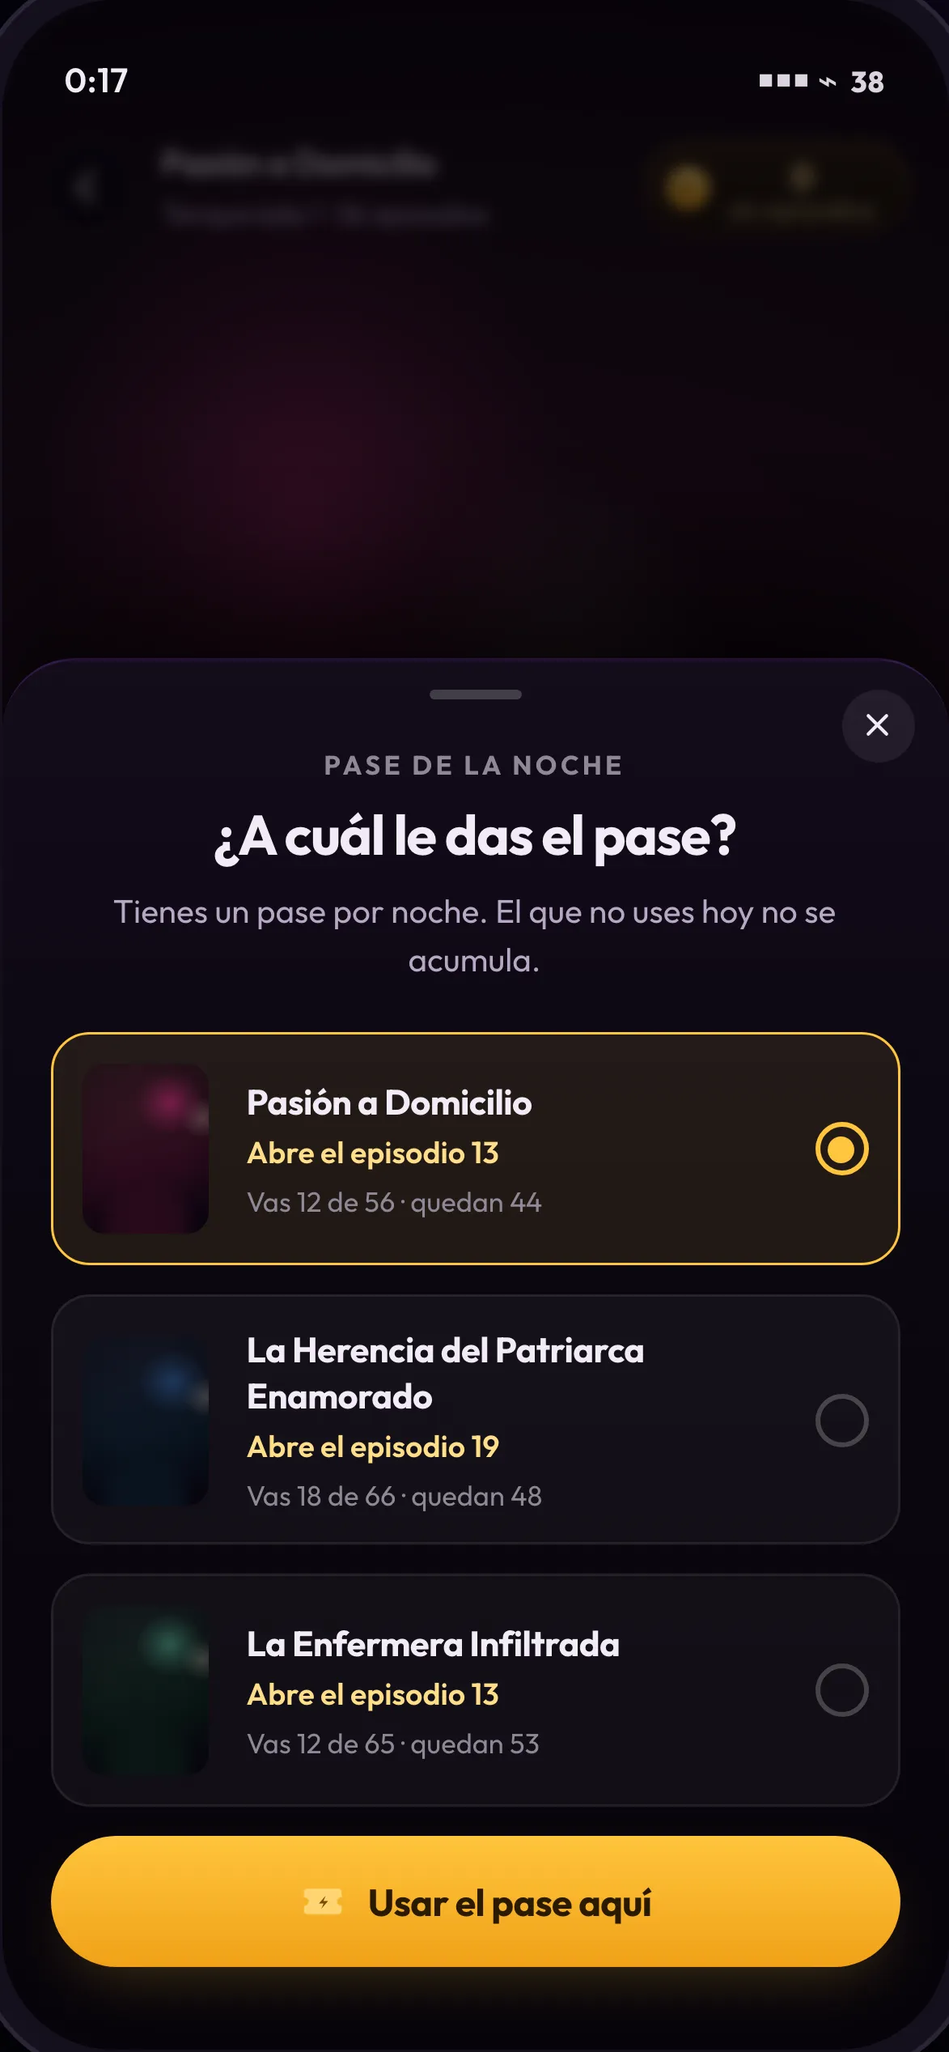
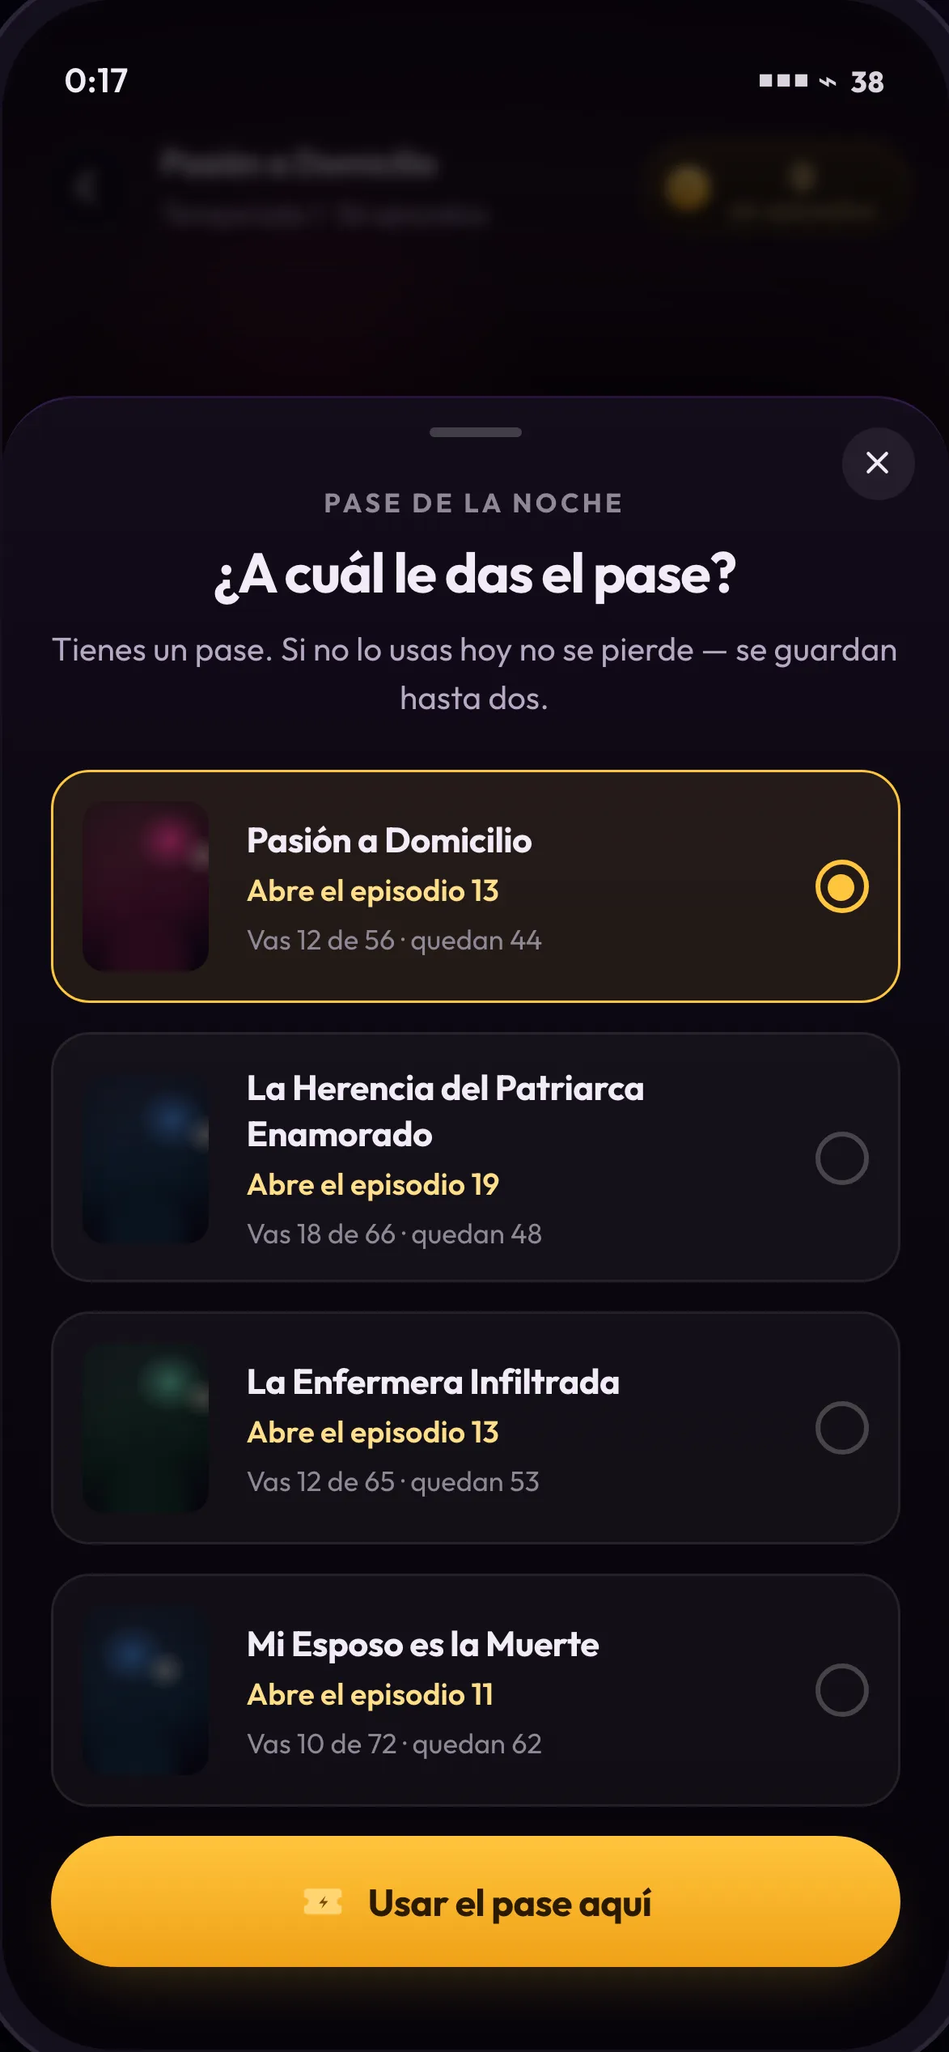
Tocabas una historia y el reproductor te daba otra
Dogfooding del flujo del pase, que es el corazón de la intervención y hasta hoy
no lo había recorrido nadie de punta a punta. Encontró tres cosas.

El player y el muro leían un seriesId que solo se movía para las tres series
con guion. Abrir cualquiera de las otras 47 del catálogo te dejaba viendo
Pasión a Domicilio, con un muro que hablaba de una historia que no pediste.
La raíz era guardar el progreso en dos espacios de nombres —vistos por id del
catálogo, unlocked por las tres con guion—; se unificaron, y serieDe() arma la
serie del censo cuando no hay guion.

La hoja del pase decía "el que no uses hoy no se acumula": la regla vieja, el
mismo "úsalo o piérdelo" que §3.4bis documenta como el error de Webtoon. Estaba
quemada en el componente y sobrevivió a todas las correcciones del documento
porque nadie probaba el texto de la UI.

Y la elección dejaba fuera la serie que estabas viendo, así que abría sin
ninguna opción marcada.

recorrer.mjs comprobaba data-state y nunca la identidad: el estado era correcto
y la historia era otra. Ahora comprueba las dos y camina el pase completo — 19
pasos donde había 11. Con el fallo puesto a propósito caen cuatro.

diff --git a/poc/src/lib/state.ts b/poc/src/lib/state.ts
@@ -1,5 +1,5 @@
 import { EPISODE_COST, HORA_HABITUAL, MAX_PASSES, MAX_SHIELDS, NIGHT_BOUNDARY_HOUR, PASS_COOLDOWN_MS, STREAK } from './economy'
-import { SERIES, type SeriesId } from './content'
+import { SERIES, type Series, type SeriesId } from './content'
 import { CATALOGO_SERIES, porId } from './catalogo'
 
 export type Sheet =
@@ -30,8 +30,10 @@ export interface State {
   lastNight: string | null        // última noche en que se acreditó (YYYY-MM-DD)
   passNextAt: number | null       // epoch ms del próximo pase; null si está al tope
   now: number
-  seriesId: SeriesId
-  unlocked: Record<SeriesId, number>
+  /** la serie que se está viendo, por id del catálogo */
+  seriesId: string
+  /** hasta qué episodio está ABIERTA cada serie (visto + pase + comprado) */
+  unlocked: Record<string, number>
   episode: number
   remind: boolean
   hasAccount: boolean
@@ -60,8 +62,12 @@ export const initialState = (now: number): State => ({
   lastNight: nocheDe(now),
   passNextAt: null,
   now,
-  seriesId: 'pasion',
-  unlocked: { pasion: 12, herencia: 18, enfermera: 12 },
+  seriesId: 'pasion-a-domicilio',
+  unlocked: {
+    'pasion-a-domicilio': 12,
+    'la-herencia-del-patriarca-enamorado': 18,
+    'la-enfermera-infiltrada': 12,
+  },
   episode: 12,
   remind: false,
   hasAccount: false,
@@ -74,14 +80,14 @@ export type Action =
   | { t: 'open'; sheet: Sheet }
   | { t: 'close' }
   | { t: 'hitWall'; ep: number }
-  | { t: 'claimPass'; series: SeriesId }
+  | { t: 'claimPass'; series: string }
   | { t: 'unlockWithCoins' }
   | { t: 'buy'; coins: number; usd: number }
   | { t: 'toggleRemind' }
   | { t: 'createAccount' }
   | { t: 'dismissAccount' }
   | { t: 'nextEpisode' }
-  | { t: 'switchSeries'; series: SeriesId }
+  | { t: 'switchSeries'; series: string }
   | { t: 'devSetState'; patch: Partial<State> }
   | { t: 'devNextNight'; attended: boolean }
   | { t: 'toast'; msg: string | null }
@@ -116,7 +122,7 @@ export function reduce(ctx: Ctx, a: Action): Ctx {
       // Gastar el pase ya no avanza la racha: eso pasó al terminar el episodio.
       // Aquí solo se descuenta el pase y se abre el episodio.
       if (s.passes < 1) return ctx
-      const targetEp = s.unlocked[a.series] + 1
+      const targetEp = desbloqueadoDe(s, a.series) + 1
       const passes = s.passes - 1
       return {
         state: {
@@ -133,7 +139,7 @@ export function reduce(ctx: Ctx, a: Action): Ctx {
 
     case 'unlockWithCoins': {
       if (s.balance < EPISODE_COST) return { ...ctx, sheet: { kind: 'store' }, state: { ...s } }
-      const ep = s.unlocked[s.seriesId] + 1
+      const ep = desbloqueadoDe(s, s.seriesId) + 1
       return {
         state: {
           ...s,
@@ -202,9 +208,8 @@ export function reduce(ctx: Ctx, a: Action): Ctx {
       // Un episodio está abierto si ya lo vio O si cae dentro de los gratis de
       // la serie. Mirar solo lo visto mandaba al muro el episodio 1 de
       // cualquier serie sin empezar, que es justo por donde entra todo el mundo.
-      const desbloqueado = Math.max(acreditado.vistos[a.id] ?? 0, porId(a.id)?.gratis ?? 0)
+      const desbloqueado = desbloqueadoDe(acreditado, a.id)
       const libre = a.n <= desbloqueado
-      const conocida = ID_A_SERIE[a.id]
       return {
         state: {
           ...acreditado,
@@ -214,7 +219,11 @@ export function reduce(ctx: Ctx, a: Action): Ctx {
           vistos: libre
             ? { ...acreditado.vistos, [a.id]: Math.max(acreditado.vistos[a.id] ?? 0, a.n) }
             : acreditado.vistos,
-          ...(conocida ? { seriesId: conocida } : {}),
+          // La serie que se ve es SIEMPRE la que el usuario tocó. Antes esto
+          // solo se movía para las tres con guion, así que abrir cualquier otra
+          // dejaba el player y el muro hablando de la anterior.
+          seriesId: a.id,
+          unlocked: { ...acreditado.unlocked, [a.id]: desbloqueado },
         },
         sheet: libre ? { kind: 'none' } : { kind: 'unlock' },
       }
@@ -337,21 +346,40 @@ function acreditarNoche(s: State): State {
   }
 }
 
-/** Las tres series con guion escrito tienen su equivalente en el catálogo real. */
-export const ID_A_SERIE: Record<string, SeriesId> = {
-  'pasion-a-domicilio': 'pasion',
-  'la-herencia-del-patriarca-enamorado': 'herencia',
-  'la-enfermera-infiltrada': 'enfermera',
+/**
+ * La serie que se está viendo, tenga guion o no.
+ *
+ * Las tres con guion traen sus cliffhangers escritos. Las otras 47 se arman del
+ * censo real —título, total y gratis son medidos— y el muro cae en «La historia
+ * sigue.», que es verdad. Inventarles un gancho sería peor: el POC estaría
+ * mintiendo sobre un contenido que no leyó nadie.
+ *
+ * Antes esto no existía y abrir cualquiera de las 47 te dejaba en el player de
+ * *Pasión a Domicilio*: tocabas una historia y te daba otra.
+ */
+export const serieDe = (id: string): Series => {
+  const escrita = SERIES[id as SeriesId]
+  if (escrita) return escrita
+  const c = porId(id)
+  return {
+    id,
+    title: c?.titulo ?? 'Serie',
+    total: c?.total ?? 0,
+    free: c?.gratis ?? 0,
+    unlockedThrough: c?.gratis ?? 0,
+    hue: c?.tono ?? ['#2A0A1C', '#0A0A0A'],
+    episodes: {},
+  }
 }
-export const SERIE_A_ID: Record<SeriesId, string> = {
-  pasion: 'pasion-a-domicilio',
-  herencia: 'la-herencia-del-patriarca-enamorado',
-  enfermera: 'la-enfermera-infiltrada',
-}
+
+/** Hasta qué episodio está abierta una serie. Las del catálogo que el usuario
+ *  nunca tocó no tienen entrada en `unlocked`: ahí manda lo gratis. */
+export const desbloqueadoDe = (s: State, id: string) =>
+  s.unlocked[id] ?? Math.max(s.vistos[id] ?? 0, porId(id)?.gratis ?? 0)
 
 /** Cuántas series del catálogo tiene empezadas. Alimenta el riel "Seguir viendo". */
 export const enCurso = (s: State) =>
   CATALOGO_SERIES.filter((c) => (s.vistos[c.id] ?? 0) > 0)
     .sort((a, b) => (s.vistos[b.id] ?? 0) - (s.vistos[a.id] ?? 0))
 
-export const seriesOf = (id: SeriesId) => SERIES[id]
+export const seriesOf = serieDe

diff --git a/poc/src/components/Sheets.tsx b/poc/src/components/Sheets.tsx
@@ -2,9 +2,8 @@ import { useState } from 'react'
 import { Coin, Pass, Shield, X } from './Icons'
 import { StreakStrip } from './bits'
 import { frameStyle } from '../lib/frame'
-import { EPISODE_COST, PACKS, STREAK, episodesLabel, packThatCompletes, pricePerEpisode, toEpisodes } from '../lib/economy'
-import { SERIES, type SeriesId } from '../lib/content'
-import type { State } from '../lib/state'
+import { EPISODE_COST, MAX_PASSES, PACKS, STREAK, episodesLabel, packThatCompletes, pricePerEpisode, toEpisodes } from '../lib/economy'
+import { desbloqueadoDe, enCurso, serieDe, type State } from '../lib/state'
 
 /* ═══ Elección del pase ═══════════════════════════════════════
    Es el corazón pedagógico de la intervención. Al obligar a elegir
@@ -12,9 +11,15 @@ import type { State } from '../lib/state'
    con recurso escaso. Aprende el sistema usándolo, no leyéndolo. */
 export function PassChoice({
   state, onPick, onClose,
-}: { state: State; onPick: (s: SeriesId) => void; onClose: () => void }) {
-  const [sel, setSel] = useState<SeriesId>(state.seriesId)
-  const active = (Object.keys(SERIES) as SeriesId[]).filter((id) => state.unlocked[id] > 0)
+}: { state: State; onPick: (s: string) => void; onClose: () => void }) {
+  const [sel, setSel] = useState<string>(state.seriesId)
+  // Antes esto listaba solo las tres series con guion. Si el usuario venía
+  // viendo otra del catálogo, no podía darle el pase a la historia que le
+  // importaba — que es justo la elección que esta pantalla existe para pedir.
+  // La serie del muro va SIEMPRE primera y siempre está: es la que el usuario
+  // tiene delante y la que `sel` trae por defecto. Ordenar solo por progreso la
+  // dejaba fuera del corte y la hoja abría sin ninguna opción marcada.
+  const active = [state.seriesId, ...enCurso(state).map((c) => c.id).filter((id) => id !== state.seriesId)].slice(0, 4)
 
   return (
     <div className="sheet" role="dialog" aria-label="Elegir serie para el pase">
@@ -24,19 +29,27 @@ export function PassChoice({
       <div className="cliff">
         <div className="kicker">Pase de la Noche</div>
         <h2>¿A cuál le das el pase?</h2>
-        <p>Tienes un pase por noche. El que no uses hoy no se acumula.</p>
+        {/* Esta línea decía «El que no uses hoy no se acumula», que es la regla
+            vieja — el "úsalo o piérdelo" que §3.4bis documenta como el error de
+            Webtoon y que esta mecánica corrigió. Sobrevivió a la corrección
+            porque el texto de la UI no lo probaba nadie. Ahora sale del estado. */}
+        <p>
+          {state.passes >= MAX_PASSES
+            ? `Tienes ${state.passes} pases: estás en el tope. El próximo empieza a acumularse cuando uses uno.`
+            : 'Tienes un pase. Si no lo usas hoy no se pierde — se guardan hasta dos.'}
+        </p>
       </div>
 
       {active.map((id) => {
-        const s = SERIES[id]
-        const next = state.unlocked[id] + 1
+        const s = serieDe(id)
+        const next = desbloqueadoDe(state, id) + 1
         return (
           <button key={id} className={`choice ${sel === id ? 'sel' : ''}`} onClick={() => setSel(id)} aria-pressed={sel === id}>
             <div className="thumb" style={frameStyle(s.hue, next)} />
             <div className="choice-body">
               <b>{s.title}</b>
               <div className="next">Abre el episodio {next}</div>
-              <div className="prog">Vas {state.unlocked[id]} de {s.total} · quedan {s.total - state.unlocked[id]}</div>
+              <div className="prog">Vas {desbloqueadoDe(state, id)} de {s.total} · quedan {s.total - desbloqueadoDe(state, id)}</div>
             </div>
             <div className="radio" />
           </button>
@@ -57,8 +70,8 @@ export function Store({
   state, onBuy, onClose,
 }: { state: State; onBuy: (coins: number, usd: number) => void; onClose: () => void }) {
   const missing = Math.max(0, EPISODE_COST - state.balance)
-  const serie = SERIES[state.seriesId]
-  const restantes = serie.total - state.unlocked[state.seriesId]
+  const serie = serieDe(state.seriesId)
+  const restantes = serie.total - desbloqueadoDe(state, state.seriesId)
   const paraTerminar = restantes * EPISODE_COST
   const completa = packThatCompletes(paraTerminar - state.balance)
   return (

diff --git a/poc/src/components/Wall.tsx b/poc/src/components/Wall.tsx
@@ -2,7 +2,7 @@ import { Bell, Coin, Lock, Pass, X } from './Icons'
 import { NextPass, StreakStrip } from './bits'
 import { EPISODE_COST, MAX_PASSES, episodesLabel } from '../lib/economy'
 import type { Series } from '../lib/content'
-import type { State } from '../lib/state'
+import { desbloqueadoDe, type State } from '../lib/state'
 
 /**
  * EL MURO — la pantalla donde ocurre todo.
@@ -23,12 +23,13 @@ export function Wall({
   state: State; series: Series; justAdvanced?: boolean
   onClaim: () => void; onCoins: () => void; onStore: () => void; onClose: () => void; onRemind: () => void
 }) {
-  const ep = state.unlocked[series.id] + 1
-  const prev = series.episodes[state.unlocked[series.id]]
+  const abierto = desbloqueadoDe(state, series.id)
+  const ep = abierto + 1
+  const prev = series.episodes[abierto]
   const canPayNow = state.balance >= EPISODE_COST
   const atCap = state.passes >= MAX_PASSES
   const missing = EPISODE_COST - state.balance
-  const pct = Math.round((state.unlocked[series.id] / series.total) * 100)
+  const pct = Math.round((abierto / series.total) * 100)
 
   return (
     <div className="sheet" role="dialog" aria-label="Desbloquear episodio">
@@ -39,13 +40,13 @@ export function Wall({
       <div className="cliff">
         <div className="kicker">Continuará · Episodio {ep}</div>
         <h2>{prev?.cliff || 'La historia sigue.'}</h2>
-        <p>Quedan {series.total - state.unlocked[series.id]} episodios de {series.title}.</p>
+        <p>Quedan {series.total - abierto} episodios de {series.title}.</p>
       </div>
 
       {/* 2 · dónde estoy */}
       <div style={{ marginBottom: 22 }}>
         <div className="pp-row" style={{ display: 'flex', justifyContent: 'space-between', marginBottom: 7 }}>
-          <b style={{ fontSize: 12, fontWeight: 600 }}>Vas {state.unlocked[series.id]} de {series.total}</b>
+          <b style={{ fontSize: 12, fontWeight: 600 }}>Vas {abierto} de {series.total}</b>
           <span style={{ fontSize: 11, color: 'var(--tx-lo)' }}>{pct}%</span>
         </div>
         <div className="bar"><i style={{ width: `${pct}%` }} /></div>

diff --git a/poc/src/lib/content.ts b/poc/src/lib/content.ts
@@ -1,4 +1,4 @@
-export type SeriesId = 'pasion' | 'herencia' | 'enfermera'
+export type SeriesId = 'pasion-a-domicilio' | 'la-herencia-del-patriarca-enamorado' | 'la-enfermera-infiltrada'
 
 export interface Episode {
   n: number
@@ -8,7 +8,8 @@ export interface Episode {
 }
 
 export interface Series {
-  id: SeriesId
+  /** el id del catálogo: mismo espacio de nombres que `vistos` y `unlocked` */
+  id: string
   title: string
   total: number
   free: number
@@ -22,8 +23,8 @@ export interface Series {
  *  Se eligieron para que el POC muestre las tres estructuras que existen:
  *  la moda (10 gratis), una excepción por arriba (12) y una por abajo (7). */
 export const SERIES: Record<SeriesId, Series> = {
-  pasion: {
-    id: 'pasion',
+  'pasion-a-domicilio': {
+    id: 'pasion-a-domicilio',
     title: 'Pasión a Domicilio',
     total: 56,
     free: 12,         // excepción: la serie con más gratis del catálogo
@@ -36,8 +37,8 @@ export const SERIES: Record<SeriesId, Series> = {
       15: { n: 15, title: 'Sin coartada', cliff: 'El portero declara que esa noche nadie entró al edificio.' },
     },
   },
-  herencia: {
-    id: 'herencia',
+  'la-herencia-del-patriarca-enamorado': {
+    id: 'la-herencia-del-patriarca-enamorado',
     title: 'La Herencia del Patriarca Enamorado',
     total: 66,
     free: 7,          // la serie con menos gratis de todo el catálogo
@@ -49,8 +50,8 @@ export const SERIES: Record<SeriesId, Series> = {
       20: { n: 20, title: 'El heredero que faltaba', cliff: 'Hay un cuarto nombre en el acta y nadie lo había leído.' },
     },
   },
-  enfermera: {
-    id: 'enfermera',
+  'la-enfermera-infiltrada': {
+    id: 'la-enfermera-infiltrada',
     title: 'La Enfermera Infiltrada',
     total: 65,
     free: 10,         // la moda del catálogo

diff --git a/poc/src/App.tsx b/poc/src/App.tsx
@@ -6,8 +6,7 @@ import { Serie } from './components/Serie'
 import { Wall } from './components/Wall'
 import { AccountPrompt, Celebrate, PassChoice, Store, StreakSheet } from './components/Sheets'
 import { Coin, Logo } from './components/Icons'
-import { SERIES, type SeriesId } from './lib/content'
-import { SERIE_A_ID } from './lib/state'
+import { enCurso, serieDe } from './lib/state'
 import { CATALOGO, EPISODE_COST, MAX_PASSES, PASS_COOLDOWN_MS, episodesLabel, weeklyIssuance } from './lib/economy'
 import { initialState, proximaCita, reduce, stateName, type Action, type Ctx, type Sheet, type State } from './lib/state'
 
@@ -52,10 +51,12 @@ export default function App() {
     return () => clearTimeout(id)
   }, [state.toast])
 
-  const series = SERIES[state.seriesId]
-  const activeSeries = (Object.keys(SERIES) as SeriesId[]).length
+  const series = serieDe(state.seriesId)
+  // Cuántas historias tiene empezadas de verdad. Con una sola, pedirle que
+  // elija sería teatro: el pase va donde está.
+  const activeSeries = enCurso(state).length
 
-  const claim = (id: SeriesId) => {
+  const claim = (id: string) => {
     dispatch({ t: 'claimPass', series: id })
     setJustAdvanced(true)
     setTimeout(() => setJustAdvanced(false), 2600)
@@ -120,7 +121,7 @@ export default function App() {
             onWallet={() => dispatch({ t: 'open', sheet: { kind: 'streak' } })}
             onNext={() => dispatch({ t: 'nextEpisode' })}
             onPrev={() => dispatch({ t: 'devSetState', patch: { episode: Math.max(1, state.episode - 1) } })}
-            onVolver={() => dispatch({ t: 'verSerie', id: SERIE_A_ID[state.seriesId] })}
+            onVolver={() => dispatch({ t: 'verSerie', id: state.seriesId })}
           />
           </div>
         )}

diff --git a/docs/04-poc/README.md b/docs/04-poc/README.md
@@ -94,6 +94,16 @@ Las tres series del POC son reales y están elegidas para cubrir la moda y los d
 
 **El pase caducaba, y eso era el error de Webtoon otra vez.** La primera versión decía *"no se acumula, el que no se usa se pierde"*. Al verificar el precedente — el Daily Pass de Webtoon, retirado en mayo de 2025 — resultó que la queja dominante de sus lectores durante cinco años fue justamente el "úsalo o piérdelo": convertía leer en una tarea. Era la misma trampa que el diagnóstico le señala a la racha diaria de Idilio, reintroducida sin darme cuenta. Los pases ahora se acumulan hasta 2: faltar una noche no cuesta nada y volver seguido sigue rindiendo más. Detalle completo en [§3.4bis](../03-diseno/#34bis--el-precedente-revisado-en-contra).
 
+**Tocabas una historia y el reproductor te daba otra.** Es el peor fallo que encontré, y llevaba ahí desde el principio. El home muestra las 50 series del censo y la ficha de cualquiera funciona bien — pero el player y el muro leían un `seriesId` que solo se movía para las **tres** series con guion escrito. Abrir cualquiera de las otras 47 te dejaba viendo *Pasión a Domicilio* con un muro que decía *«quedan 44 episodios de Pasión a Domicilio»*. Yo había pedido *Enamoradas del Motociclista Mafioso*.
+
+La raíz era una duplicación: el estado guardaba el progreso dos veces, en `vistos` (por id del catálogo) y en `unlocked` (por las tres con guion), o sea dos espacios de nombres para el mismo hecho. Se unificaron en el del catálogo, y `serieDe()` arma la serie desde el censo cuando no hay guion: título, total y gratis son cifras medidas. El muro cae entonces en *«La historia sigue.»* — que es verdad. Inventarle un cliffhanger a un contenido que no leyó nadie habría sido peor.
+
+*Por qué no lo vio nadie antes.* [`recorrer.mjs`](../../poc/scripts/recorrer.mjs) caminaba justo por ese camino y pasaba, porque comprobaba `data-state` y nunca la **identidad**: el estado era el correcto y la historia era otra. Ahora comprueba las dos cosas en cada pantalla y camina además el flujo del pase entero —elegir serie, desbloquear, volver al episodio—, que es el corazón de la intervención y hasta hoy no lo recorría nadie. Son 19 comprobaciones donde había 11. Con el fallo puesto a propósito, caen cuatro y señalan la sustitución.
+
+**La hoja del pase desmentía la mecánica.** Decía, quemado en el componente: *«Tienes un pase por noche. El que no uses hoy no se acumula.»* Es literalmente la regla vieja — el «úsalo o piérdelo» que [§3.4bis](../03-diseno/#34bis--el-precedente-revisado-en-contra) documenta como el error que hundió al Daily Pass de Webtoon y que esta mecánica corrigió. La pantalla central de la intervención le decía al usuario lo contrario de lo que el sistema hace. Sobrevivió a todas las correcciones del documento porque **nadie probaba el texto de la UI**; ahora sale del estado y el recorrido falla si vuelve a prometer que el pase caduca.
+
+*Y la elección dejaba fuera la serie que estabas viendo.* Listaba solo las tres con guion, ordenadas por progreso: la historia que el usuario tenía delante podía no aparecer, y la hoja abría sin ninguna opción marcada. Ahora la del muro va siempre primera.
+
 **El documento prometía un pase que el código no entregaba.** El diseño dice que el pase se *emite por reloj* y se *entrega al ver*, y que por eso al volver de una noche de ausencia hay **dos** esperando. Las dos implementaciones —el reducer del prototipo y `credit_night()` en SQL— entregaban `+1` por visita. La diferencia solo se nota en el caso que la mecánica existe para cubrir: quien gastó su pase anoche y faltó hoy volvía a encontrar uno solo, o sea *use it or lose it* — el error de Webtoon, otra vez, ahora escondido en una línea de código en vez de en una frase. Se corrigió en las dos, y ahora [`scripts/acreditacion.mjs`](../../poc/scripts/acreditacion.mjs) lo sostiene en CI: le devolví el `+1` fijo al reducer y la prueba cae señalando exactamente esa regla.
 
 *Por qué hacía falta una prueba nueva.* [`recorrer.mjs`](../../poc/scripts/recorrer.mjs) evita el panel del director a propósito, porque saltar a un estado no prueba que se pueda llegar a él. Pero estas reglas hablan del **paso del tiempo**, y no hay forma de esperar una noche dentro de una prueba: ahí el panel es la única vía. Son dos scripts porque prueban dos cosas distintas, no por comodidad.
